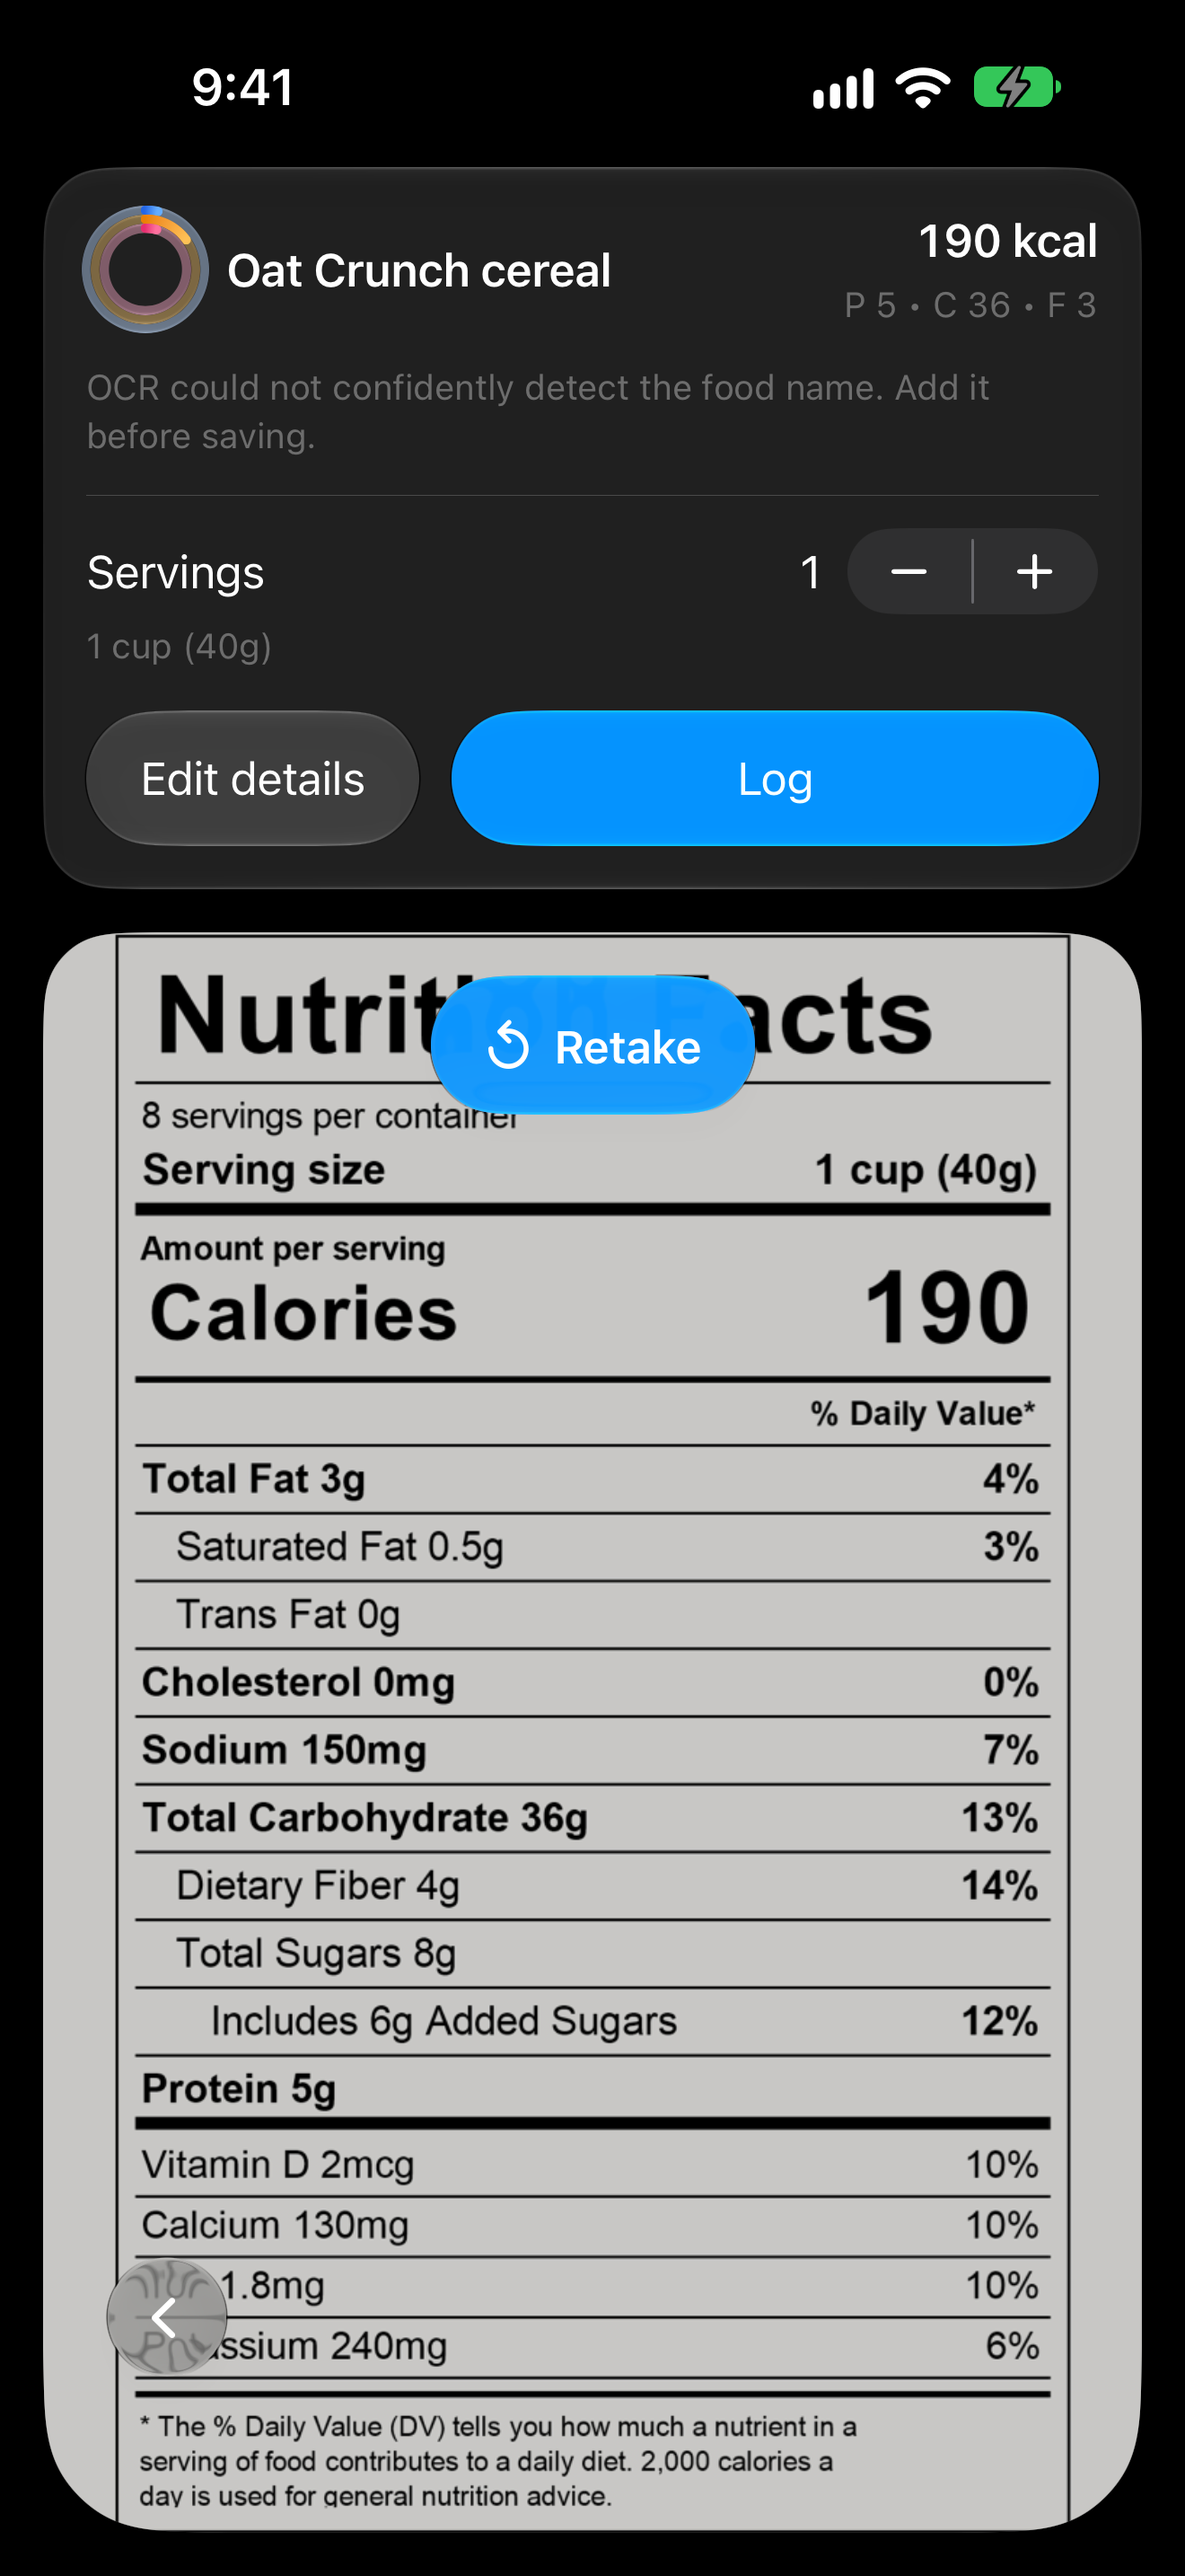
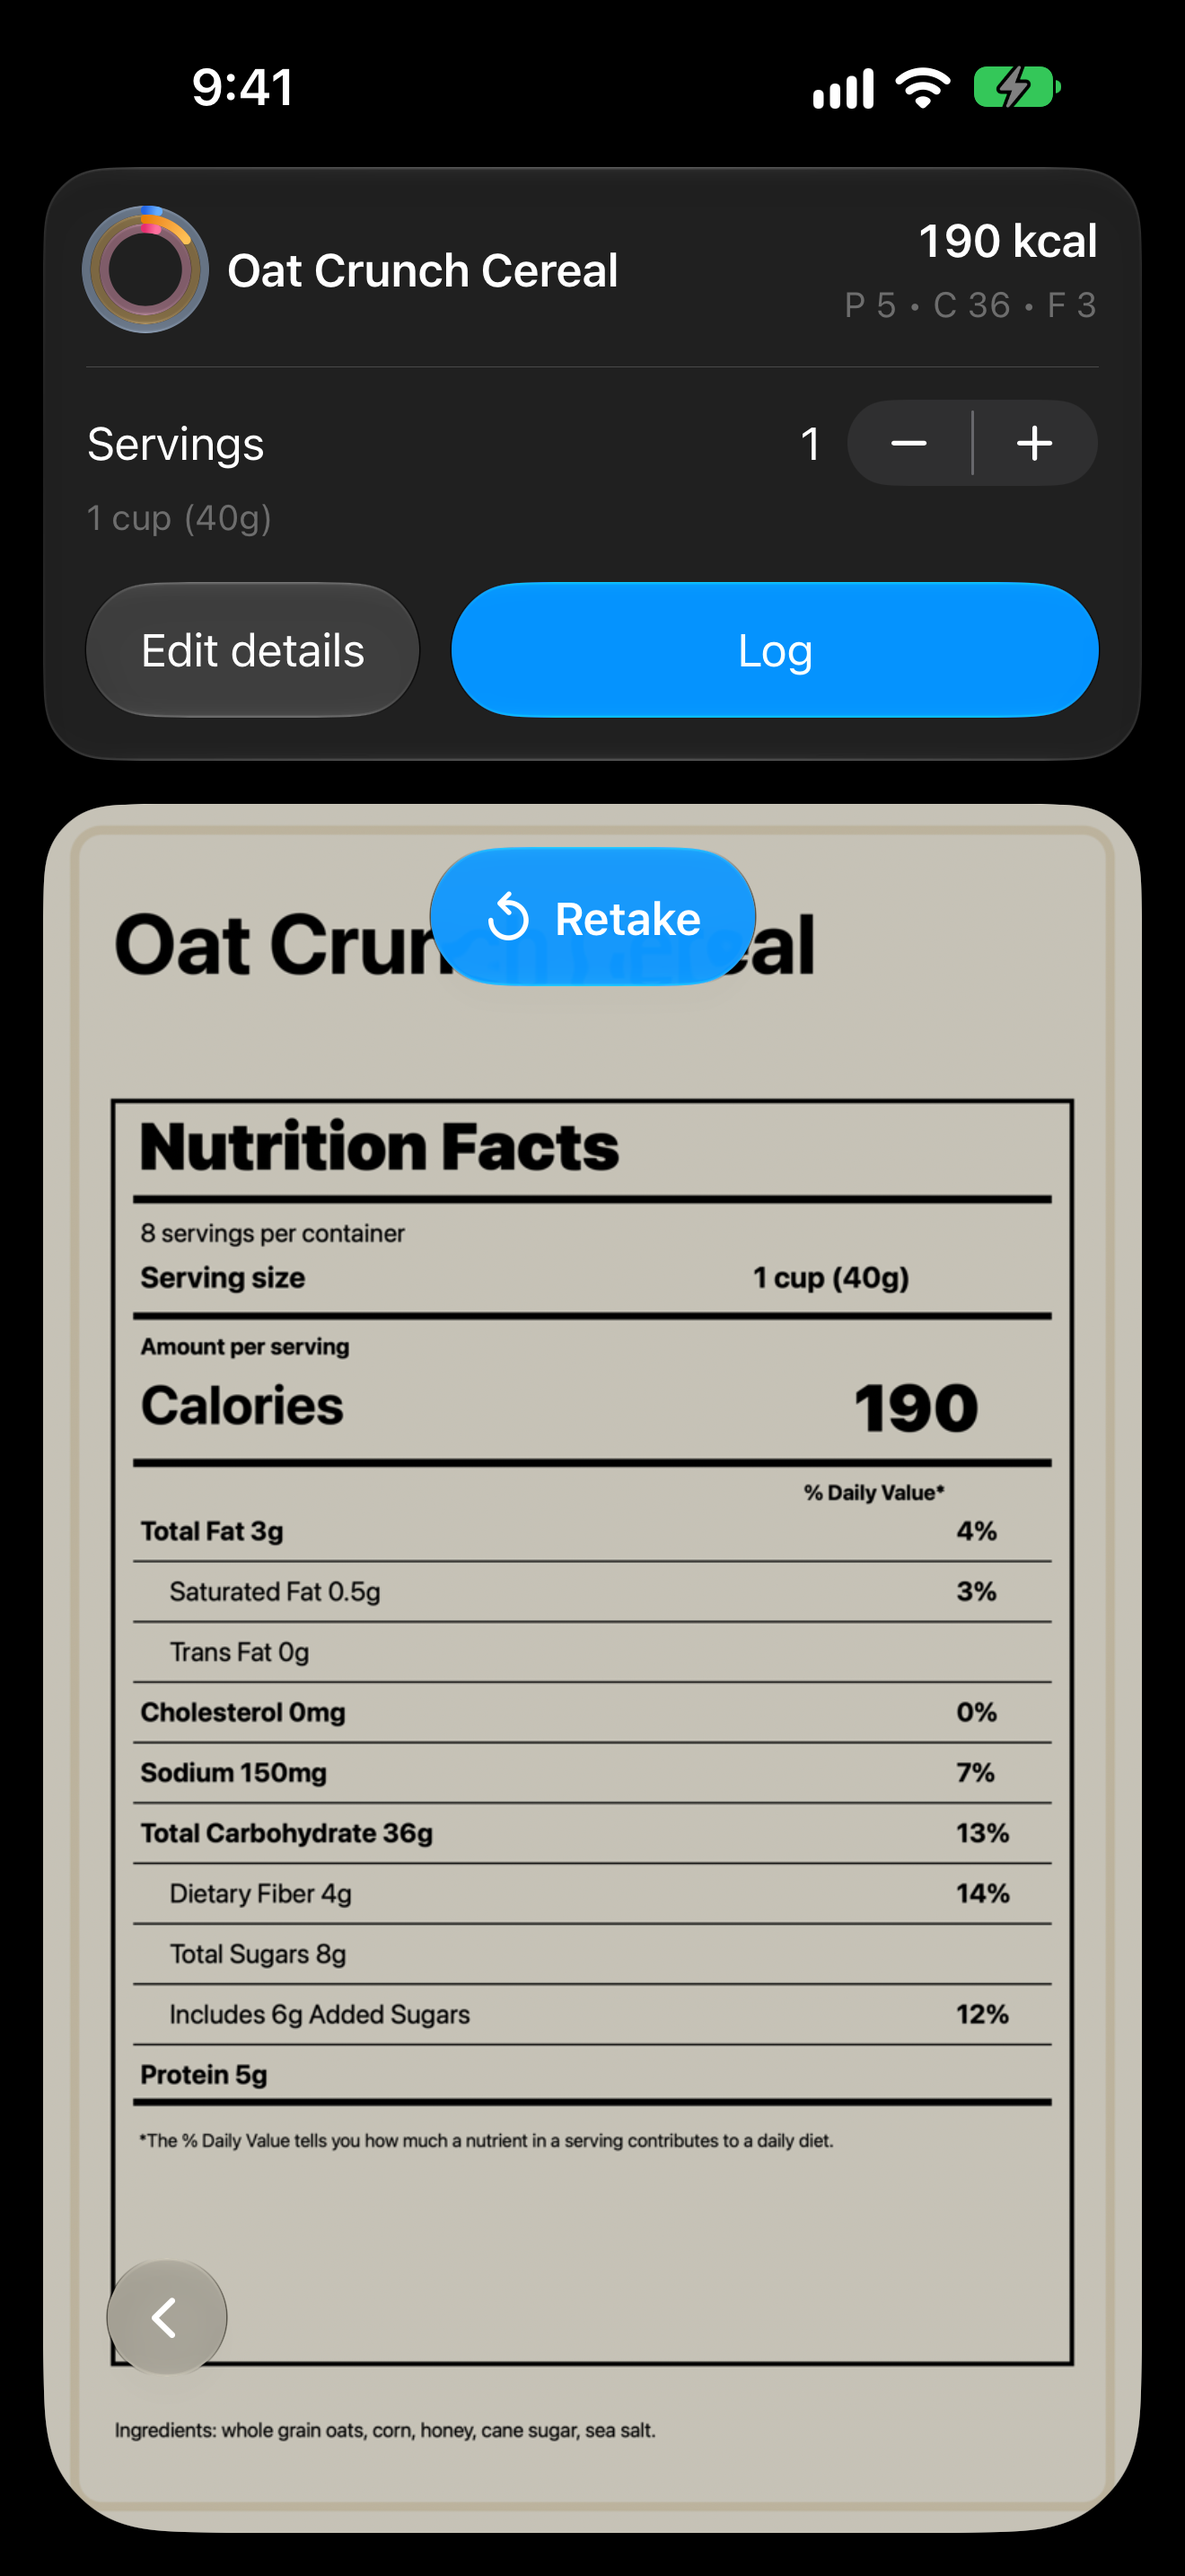
web: retake label scan screenshot without OCR warning

diff --git a/web/src/data/site.ts b/web/src/data/site.ts
@@ -203,8 +203,8 @@ export const site = {
 		},
 		{
 			src: appScanReviewImage,
-			alt: 'Nutrition label scan result in the camera with the detected serving and nutrients ready to review',
-			title: 'Review a label scan',
+			alt: 'Camera label scan review for Oat Crunch Cereal showing a 1 cup (40 g) serving, 190 calories, 5 g protein, 36 g carbs, 3 g fat, Log and Edit details buttons, and the scanned Nutrition Facts label',
+			title: 'Oat Crunch Cereal label scan',
 		},
 		{
 			src: appHistoryImage,

diff --git a/web/web-changes-log.md b/web/web-changes-log.md
@@ -2,6 +2,12 @@
 
 `web-changes-log.md` is the web-project history file for implemented work, bugs found, deployment/config decisions, and validation results.
 
+## 2026-11-02 Label Scan Screenshot Retake
+
+- Replaced the label-review screenshot with a 1320 × 2868 iPhone 18 Pro Max capture showing the OCR-detected “Oat Crunch Cereal,” its 1 cup (40 g) serving, 190 calories, 5 g protein, 36 g carbs, 3 g fat, and the Log/Edit details actions without the missing-name warning.
+- Used a generated cereal-label photo with the product name printed above its Nutrition Facts panel. OCR identified the name from the printed title; no app code or screenshot pixels were edited.
+- Updated the screenshot title and alt text in `src/data/site.ts`, and kept the README image description in sync.
+
 ## 2026-11-02 Build 27 App Screenshot Refresh
 
 - Replaced the home, Add Food, label review, history, Pro Insights, settings, and Sharing list screenshots with iPhone 18 Pro Max captures from the build 27 Debug app.

diff --git a/README.md b/README.md
@@ -34,7 +34,7 @@ The app stays local-first: no required account for normal tracking, on-device fo
 ### Label review
 
 <p align="center">
-  <img src="web/src/assets/app-images/app-scan-review.png" alt="Nutrition label scan result ready to review" width="220" />
+  <img src="web/src/assets/app-images/app-scan-review.png" alt="Camera label scan review for Oat Crunch Cereal showing a 1 cup (40 g) serving, 190 calories, 5 g protein, 36 g carbs, 3 g fat, Log and Edit details buttons, and the scanned Nutrition Facts label" width="220" />
 </p>
 
 ### Insights
